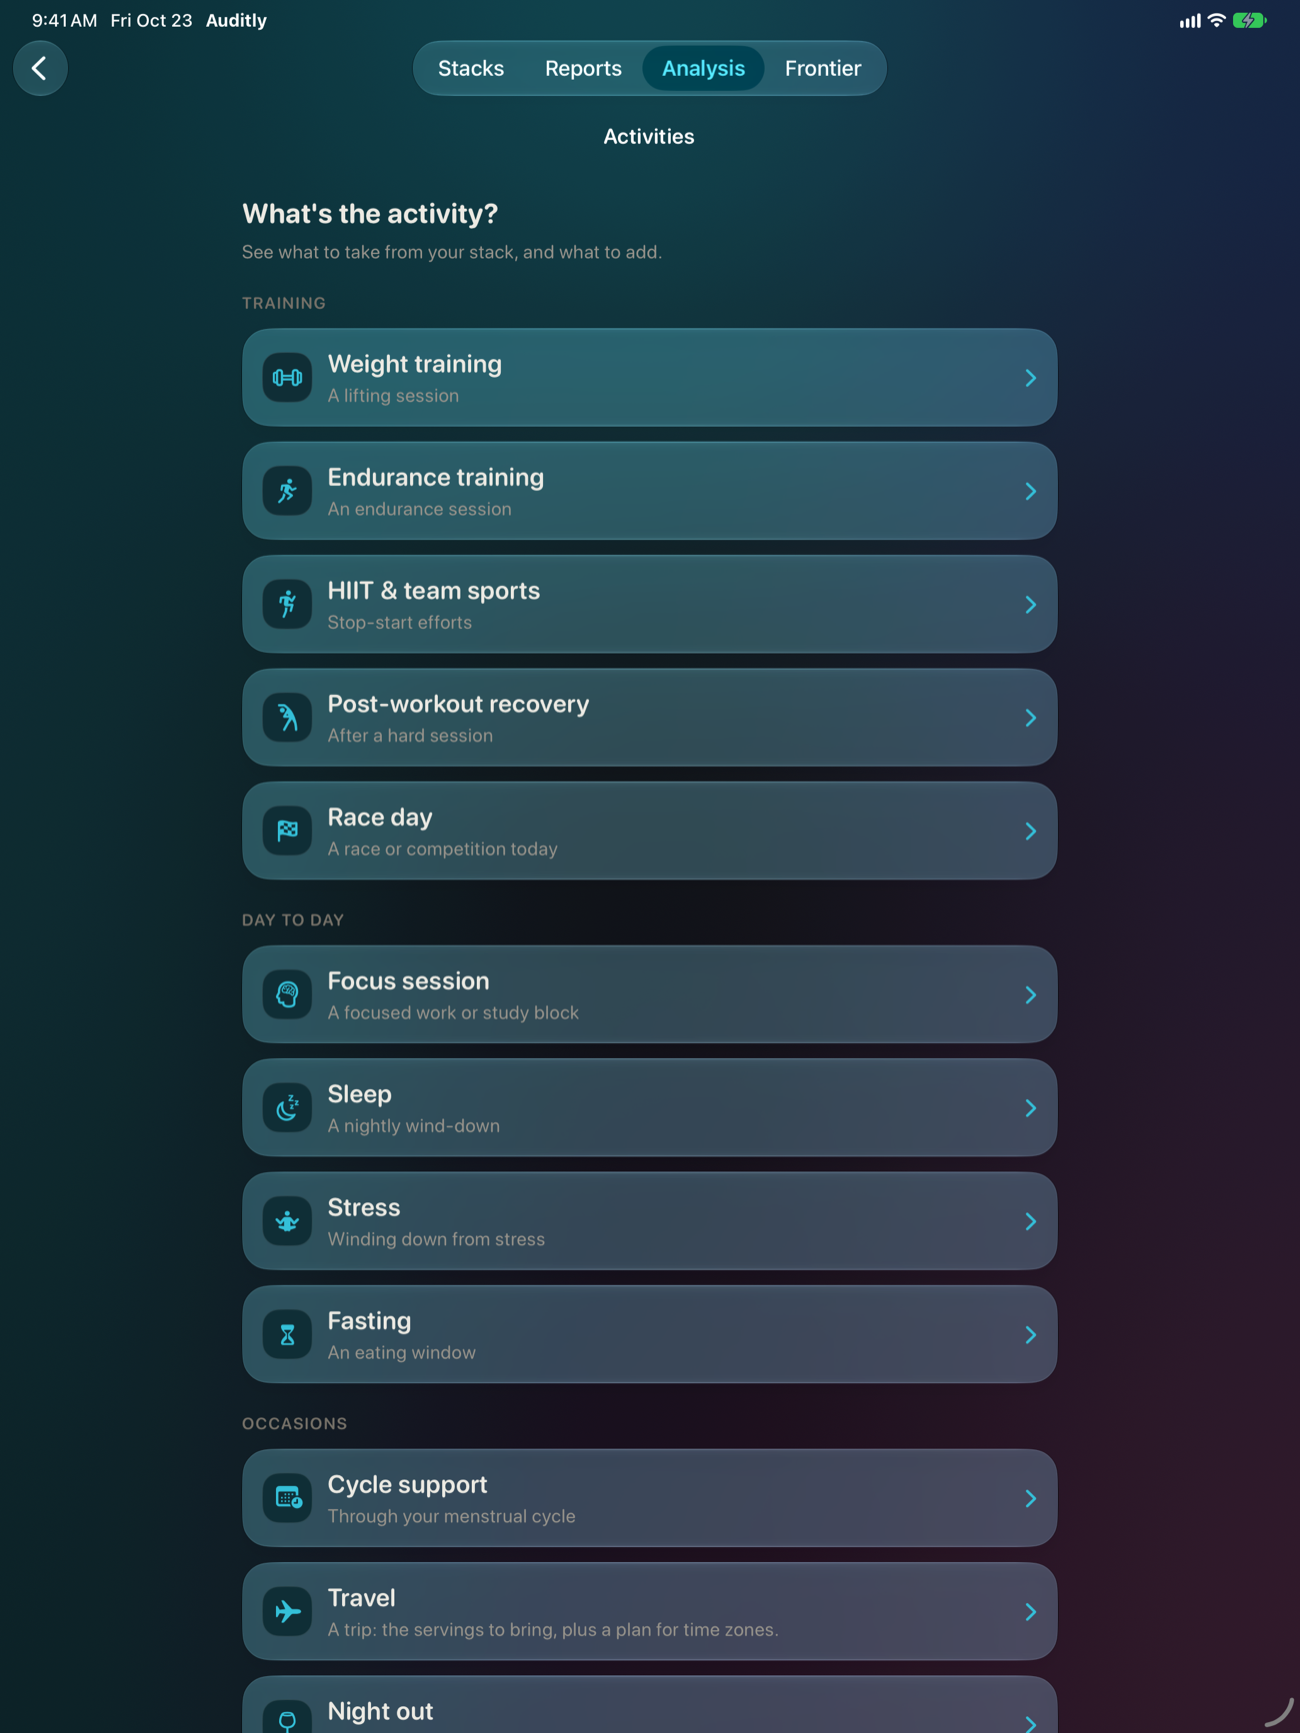
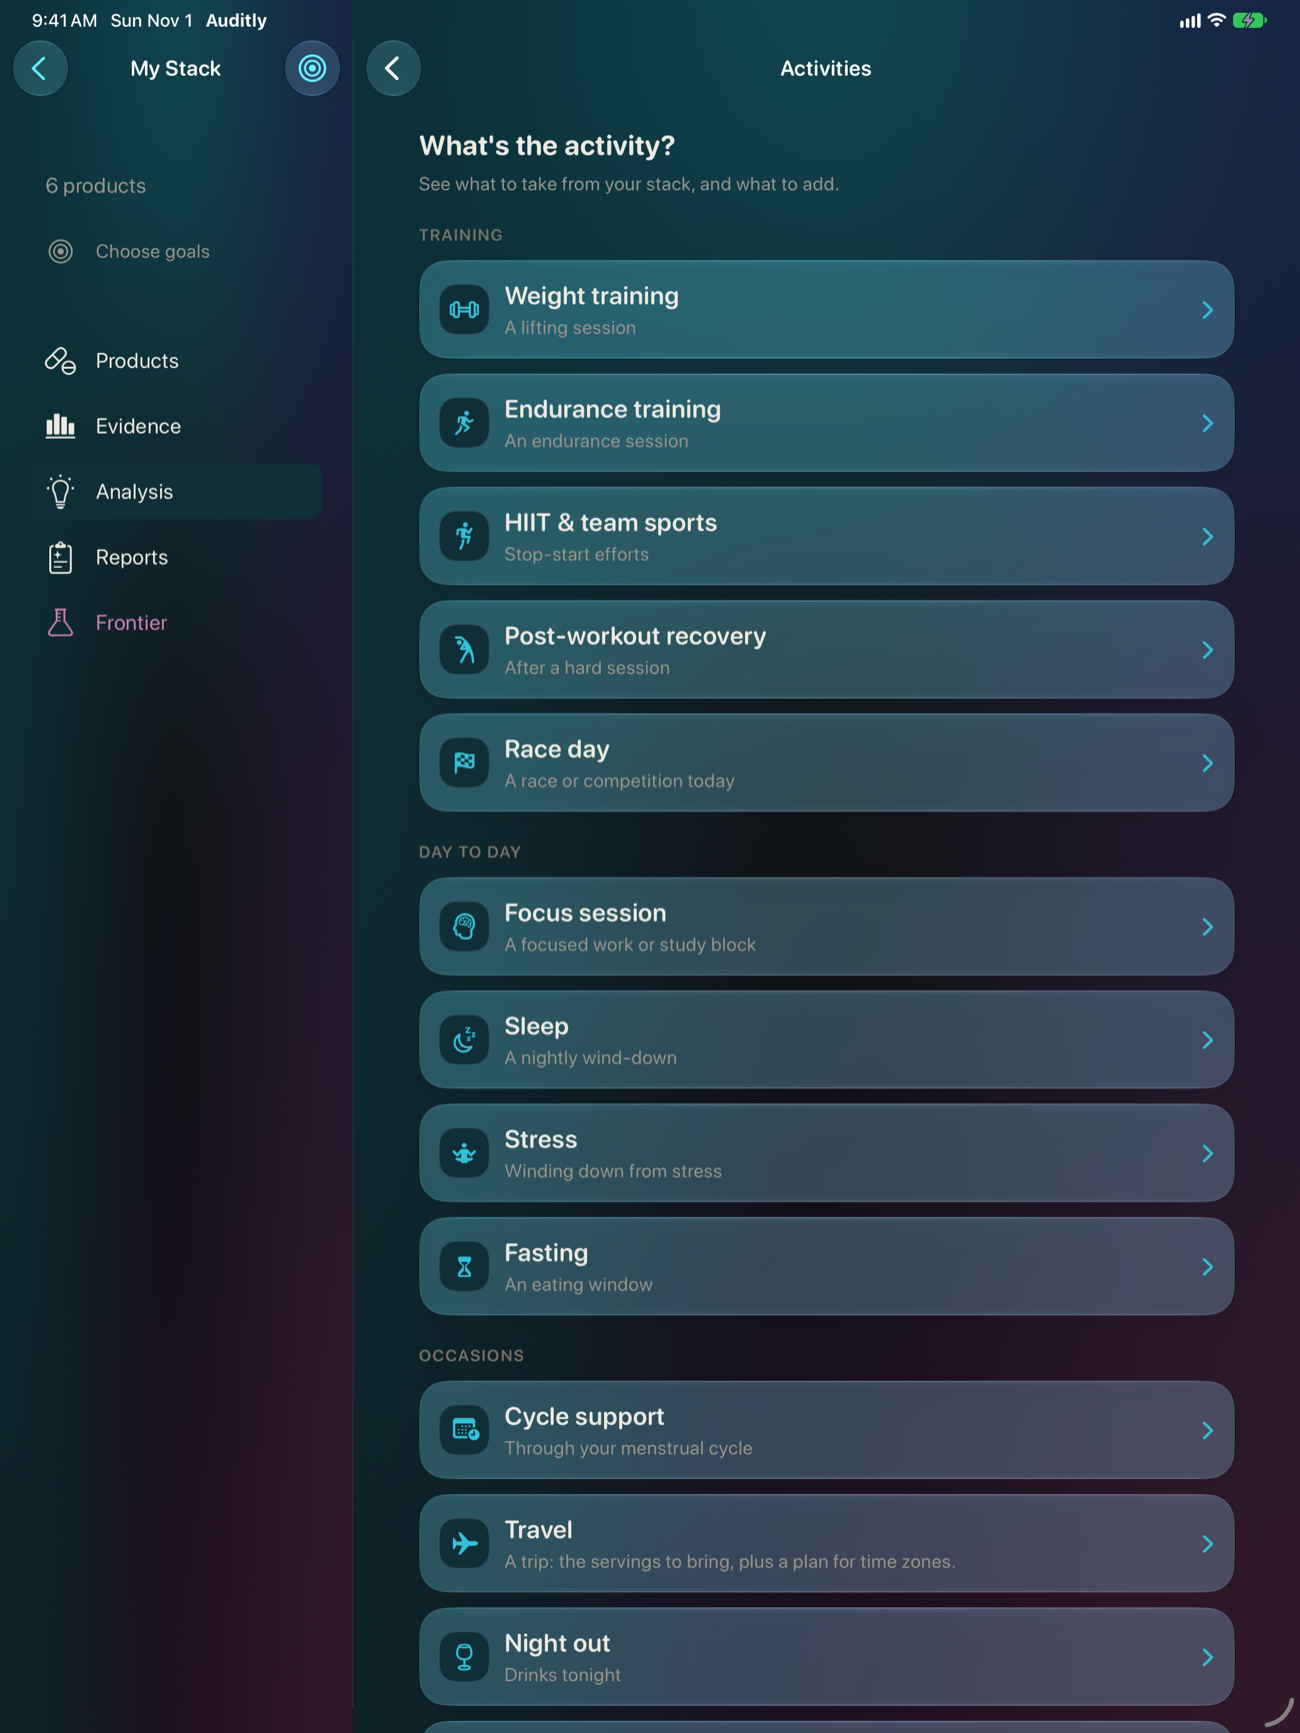
feat(auditly): refresh 4.0 marketing and screenshots

diff --git a/auditly.html b/auditly.html
@@ -4,7 +4,7 @@
 <meta charset="utf-8">
 <meta name="viewport" content="width=device-width, initial-scale=1">
 <title>Auditly - See your supplement stack clearly</title>
-<meta name="description" content="Auditly is a free supplement stack analyzer for iPhone and iPad. Explore full reports, overlap checks, daily schedules, and Frontier research. No account or in-app purchases.">
+<meta name="description" content="Auditly is a free supplement stack analyzer for iPhone and iPad. Compare ingredient evidence by goal, review overlap and doses, and explore reports, schedules, and Frontier research. No account or in-app purchases.">
 
 <link rel="icon" type="image/png" href="/favicon-96.png">
 <link rel="apple-touch-icon" href="/apple-touch-icon.png">
@@ -191,16 +191,16 @@
 <!-- ===== HERO ===== -->
 <section class="hero" id="top">
   <div class="inner">
-    <div class="pill"><span class="dot"></span> Now on iPhone &amp; iPad</div>
+    <div class="pill"><span class="dot"></span> A fresh view of your stack</div>
     <h1>See your supplement stack clearly.</h1>
-    <p class="lede">Scan a barcode, build your stack, and get a calm, plain-language read on overlaps, doses, timing, and what's quietly costing you money. Standing in the store holding a bottle? Scan it and see what adding it would change, before you pay.</p>
+    <p class="lede">Scan a label, organize your stack, and compare the evidence for your goals. Get a calm, plain-language read on overlaps, doses, timing, and potential savings. Standing in the store holding a bottle? Scan it and see what adding it would change, before you pay.</p>
     <div class="cta">
       <a class="badge" href="https://apps.apple.com/us/app/auditly/id6780102394"><img src="/appstore-badge.svg" alt="Download Auditly on the App Store"></a>
       <div class="fineprint">Free reports &amp; Frontier · No account · No in-app purchases</div>
     </div>
   </div>
   <div class="hero-devices">
-    <div class="device device--pad ipad"><img src="/auditly/img/ipad-activities.png" alt="Auditly Analysis tab on iPad, showing supplement plans for different activities"></div>
+    <div class="device device--pad ipad"><img src="/auditly/img/ipad-evidence.png" alt="Auditly Evidence on iPad, comparing ingredient ratings across three goals beside the stack sidebar"></div>
     <div class="device device--phone iphone"><img src="/auditly/img/iphone-report.png" alt="Auditly audit report on iPhone"></div>
   </div>
 </section>
@@ -382,10 +382,22 @@
   <div class="grid">
     <div class="copy">
       <div class="eyebrow">Effects</div>
-      <h2>Know what each one actually does.</h2>
-      <p>The other half of Analysis reads your stack by effect rather than by product: what's sedating, what's a stimulant, what may be hard on an empty stomach, what could nudge your blood pressure. Tap any effect to see which of your supplements carry it and the research behind it.</p>
+      <h2>Explore the studied effects.</h2>
+      <p>The Effects view reads your stack by effect rather than by product: what's sedating, what's a stimulant, what may be hard on an empty stomach, what could nudge your blood pressure. Tap any effect to see which of your supplements carry it and the research behind it.</p>
     </div>
     <div class="shot"><div class="device device--phone"><img src="/auditly/img/iphone-effects.png" alt="The Effects screen - your stack read by effect, with the supplements behind each one" loading="lazy"></div></div>
+  </div>
+</section>
+
+<section class="feature tinted reverse">
+  <div class="grid">
+    <div class="shot"><div class="device device--phone"><img src="/auditly/img/iphone-evidence.png" alt="Ingredient evidence ratings compared across three selectable goals" loading="lazy"></div></div>
+    <div class="copy">
+      <div class="eyebrow">Evidence by goal</div>
+      <h2>Compare the research, ingredient by ingredient.</h2>
+      <p>Open Evidence from your stack to compare ratings across three goals without running an audit. Search ingredients, filter by category, or sort by a goal. Tap any rating for its explanation. Ingredients without a rating stay visible, so gaps in the evidence stay clear.</p>
+      <p class="fineprint" style="margin-top:22px">Evidence ratings describe the research for a goal. They are separate from Frontier's exploratory findings and are not recommendations to take a supplement.</p>
+    </div>
   </div>
 </section>
 
@@ -407,10 +419,10 @@
     <div class="copy">
       <div class="eyebrow">More room on iPad</div>
       <h2>Your whole stack, side by side.</h2>
-      <p>On iPad, the Frontier opens into a two-column view - scan watch-outs in your stack, browse substances, and explore early-evidence leads by goal, all tied to what you already take. Same private app, more room to think.</p>
+      <p>On iPad, a persistent stack sidebar keeps Products, Evidence, Analysis, Reports, and Frontier within reach. Compare ingredient evidence across goals, browse your products, or open a saved report in its own workspace. Narrow the window and keep your place. Same private app, more room to think.</p>
       <div style="margin-top:30px"><a class="badge" href="https://apps.apple.com/us/app/auditly/id6780102394"><img src="/appstore-badge.svg" alt="Download on the App Store" style="height:54px"></a></div>
     </div>
-    <div class="shot"><div class="device device--pad"><img src="/auditly/img/ipad-frontier.png" alt="Auditly Frontier on iPad" loading="lazy"></div></div>
+    <div class="shot"><div class="device device--pad"><img src="/auditly/img/ipad-stack.png" alt="Auditly stack workspace on iPad with products beside the stack sidebar" loading="lazy"></div></div>
   </div>
 </section>
 
